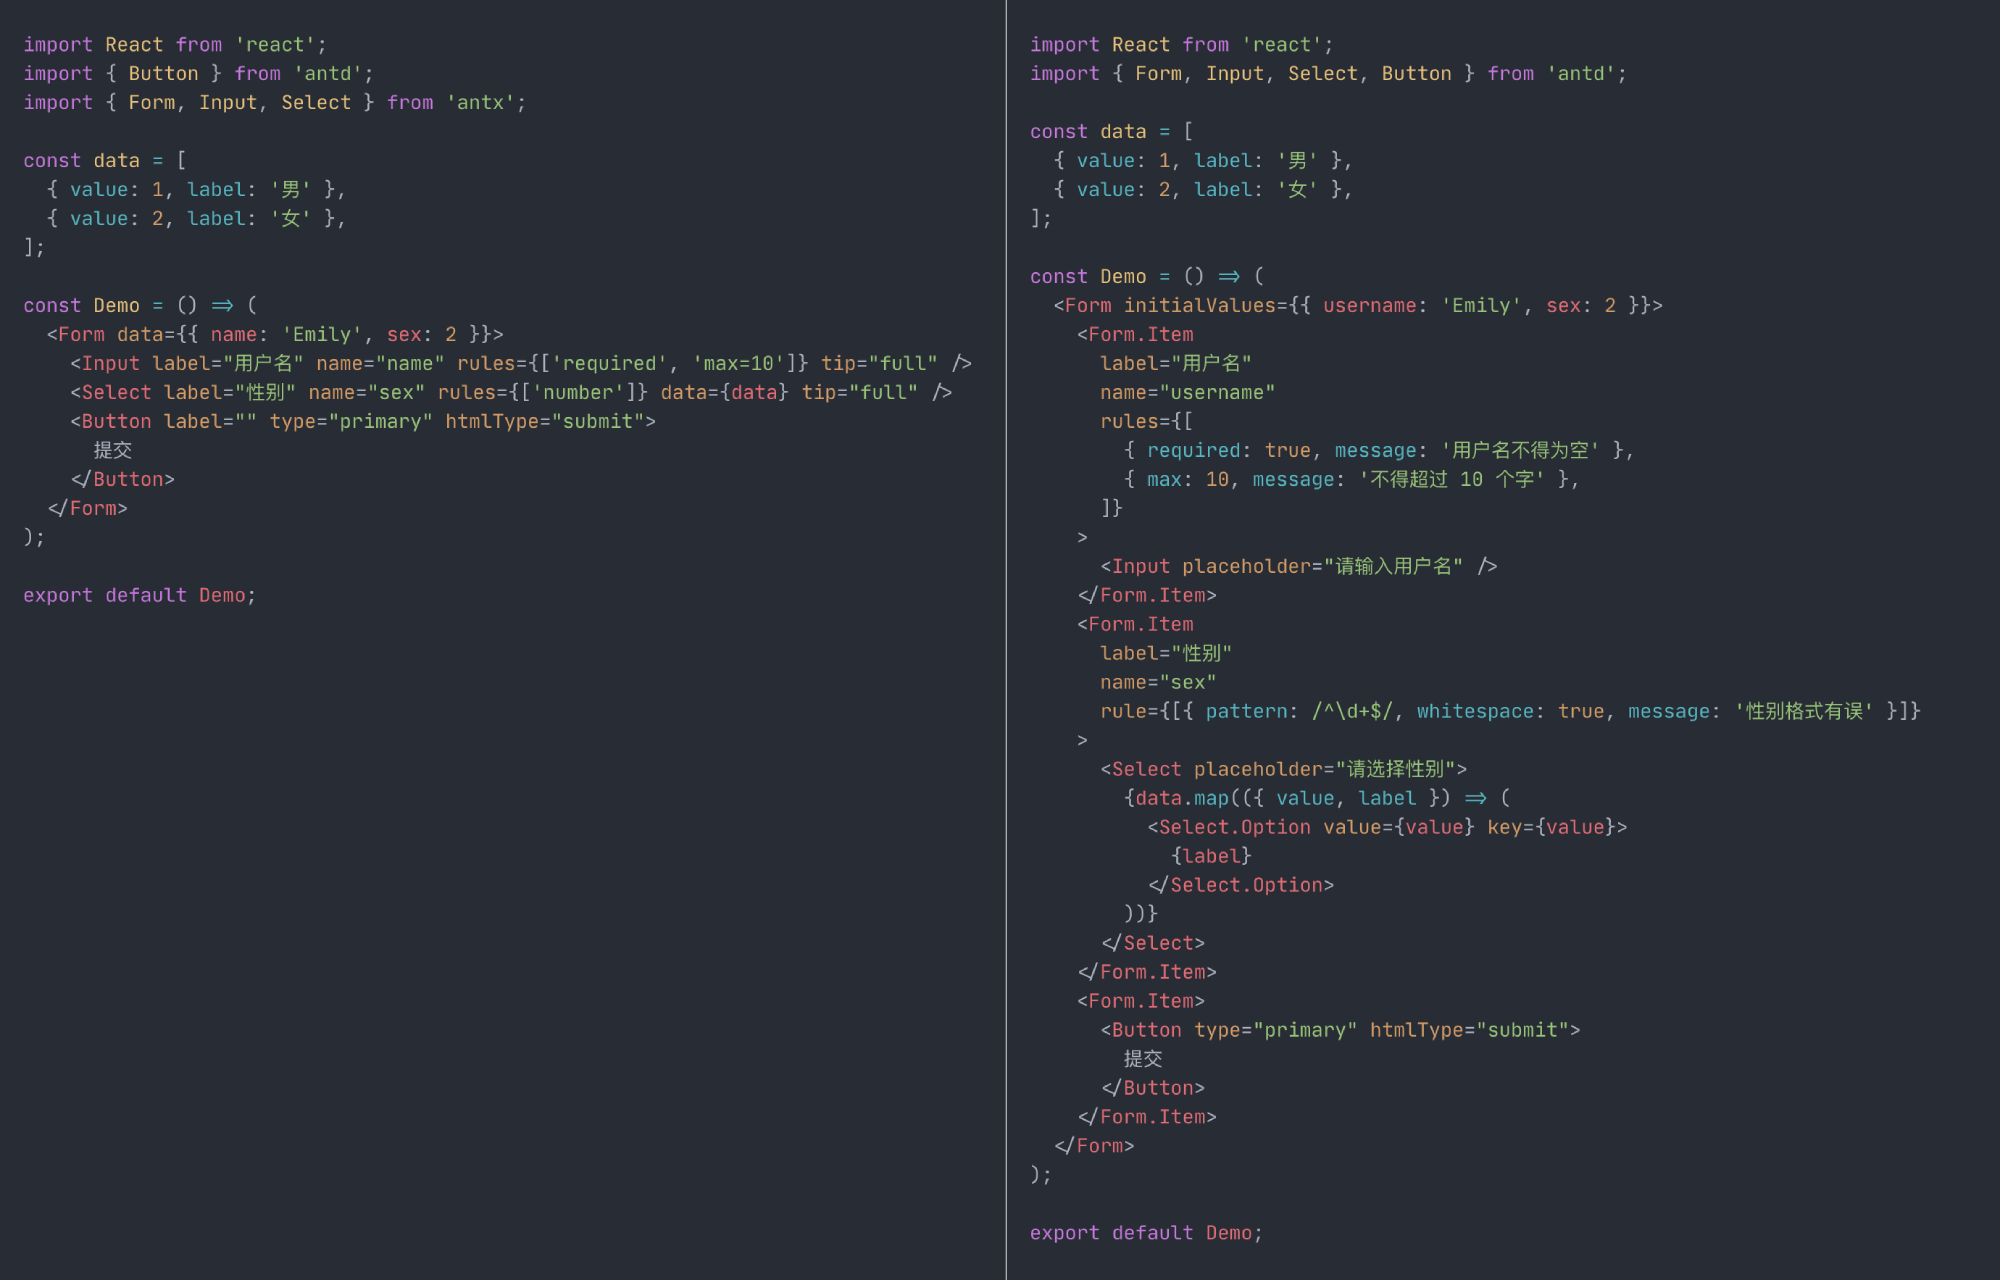
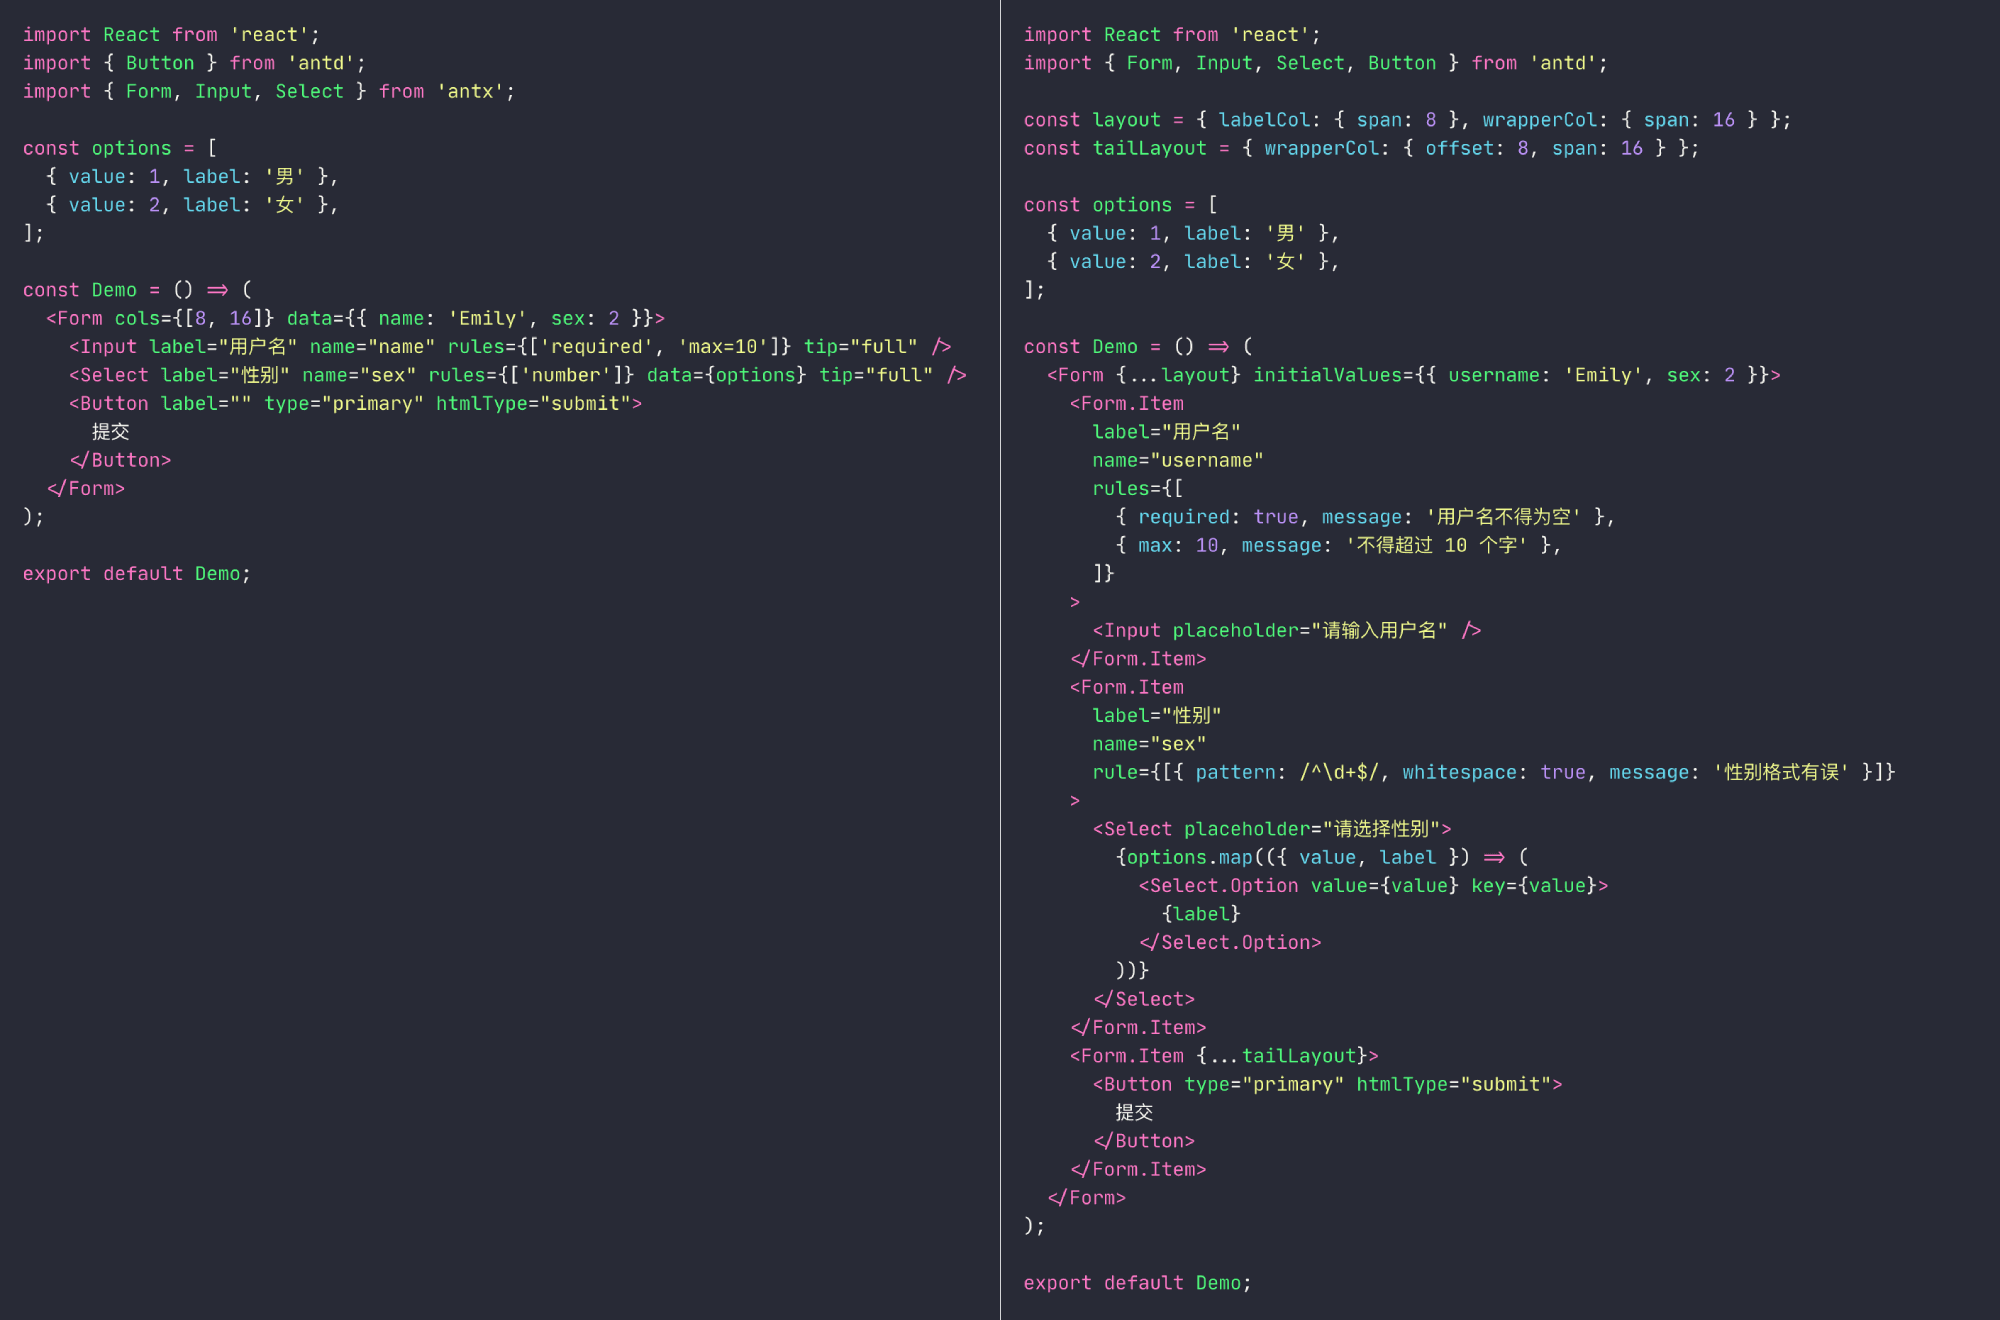
update demo files

diff --git a/demo/AntD.jsx b/demo/AntD.jsx
@@ -1,13 +1,16 @@
 import React from 'react';
 import { Form, Input, Select, Button } from 'antd';
 
-const data = [
+const layout = { labelCol: { span: 8 }, wrapperCol: { span: 16 } };
+const tailLayout = { wrapperCol: { offset: 8, span: 16 } };
+
+const options = [
   { value: 1, label: '男' },
   { value: 2, label: '女' },
 ];
 
 const Demo = () => (
-  <Form initialValues={{ username: 'Emily', sex: 2 }}>
+  <Form {...layout} initialValues={{ username: 'Emily', sex: 2 }}>
     <Form.Item
       label="用户名"
       name="username"
@@ -24,14 +27,14 @@ const Demo = () => (
       rule={[{ pattern: /^\d+$/, whitespace: true, message: '性别格式有误' }]}
     >
       <Select placeholder="请选择性别">
-        {data.map(({ value, label }) => (
+        {options.map(({ value, label }) => (
           <Select.Option value={value} key={value}>
             {label}
           </Select.Option>
         ))}
       </Select>
     </Form.Item>
-    <Form.Item>
+    <Form.Item {...tailLayout}>
       <Button type="primary" htmlType="submit">
         提交
       </Button>

diff --git a/demo/AntX.jsx b/demo/AntX.jsx
@@ -2,15 +2,15 @@ import React from 'react';
 import { Button } from 'antd';
 import { Form, Input, Select } from 'antx';
 
-const data = [
+const options = [
   { value: 1, label: '男' },
   { value: 2, label: '女' },
 ];
 
 const Demo = () => (
-  <Form data={{ name: 'Emily', sex: 2 }}>
+  <Form cols={[8, 16]} data={{ name: 'Emily', sex: 2 }}>
     <Input label="用户名" name="name" rules={['required', 'max=10']} tip="full" />
-    <Select label="性别" name="sex" rules={['number']} data={data} tip="full" />
+    <Select label="性别" name="sex" rules={['number']} data={options} tip="full" />
     <Button label="" type="primary" htmlType="submit">
       提交
     </Button>
